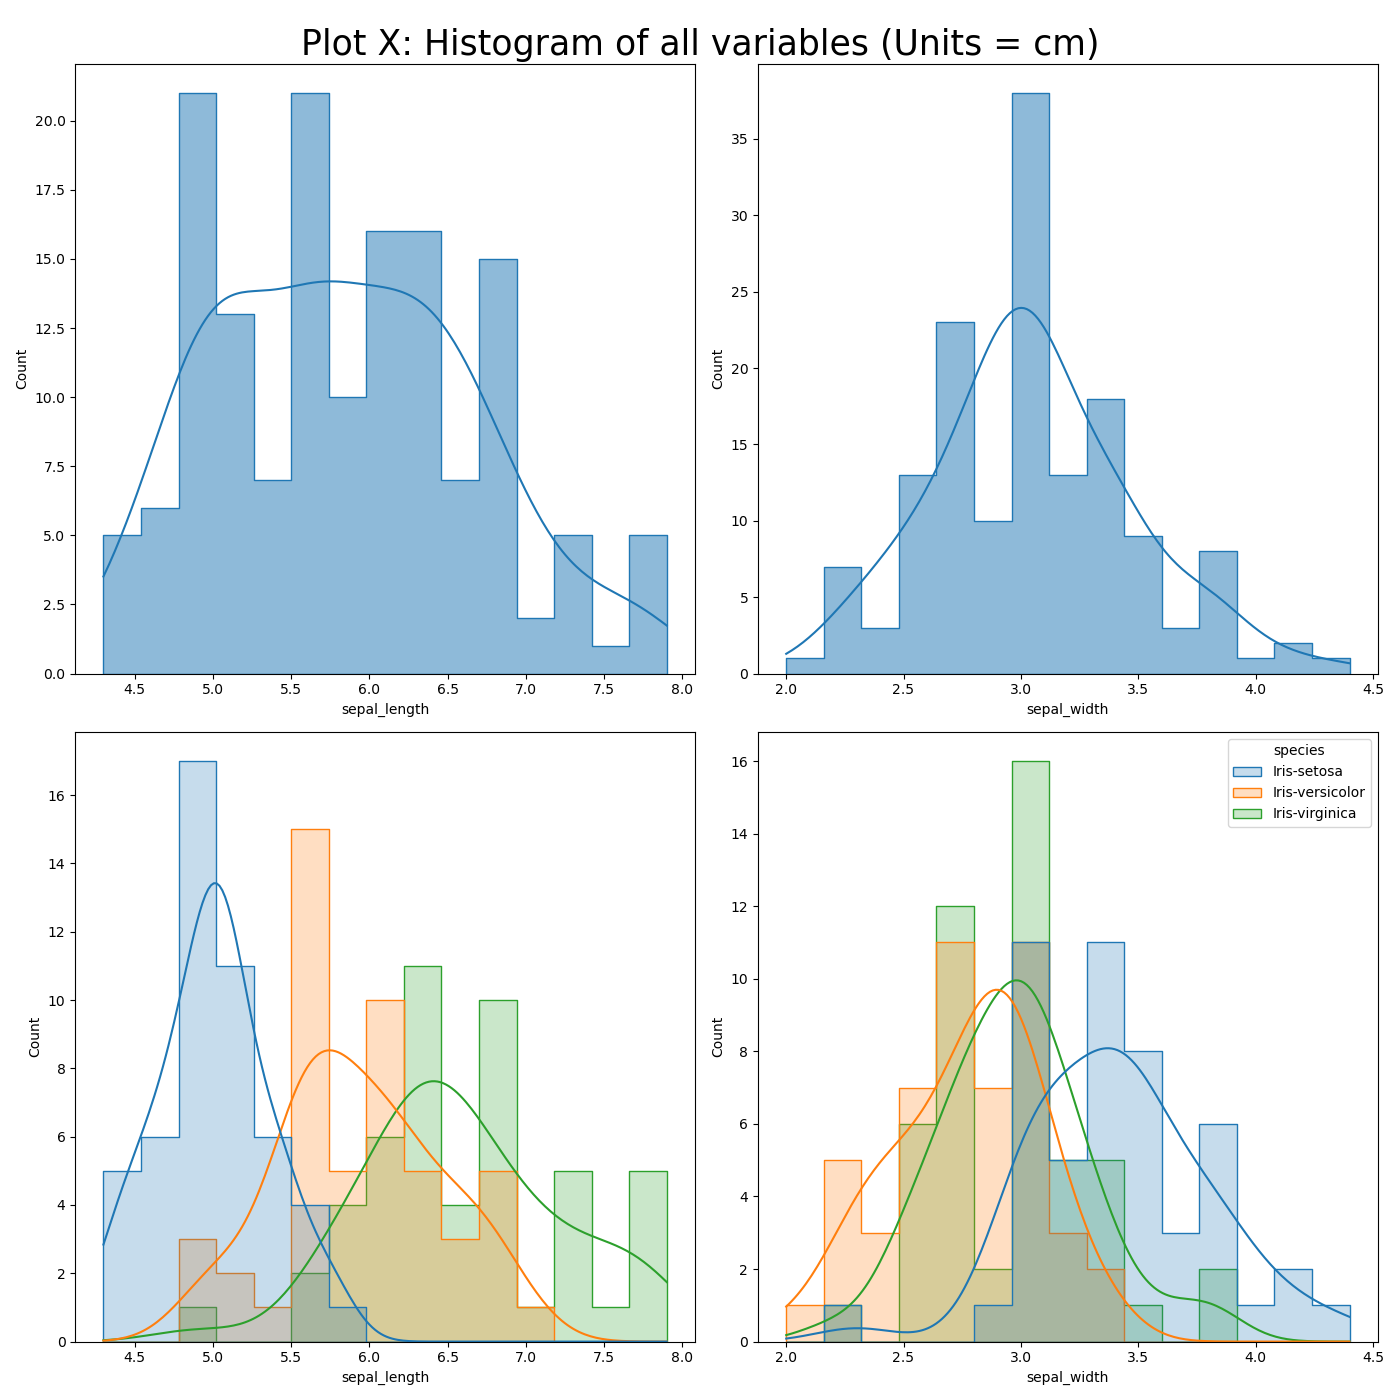
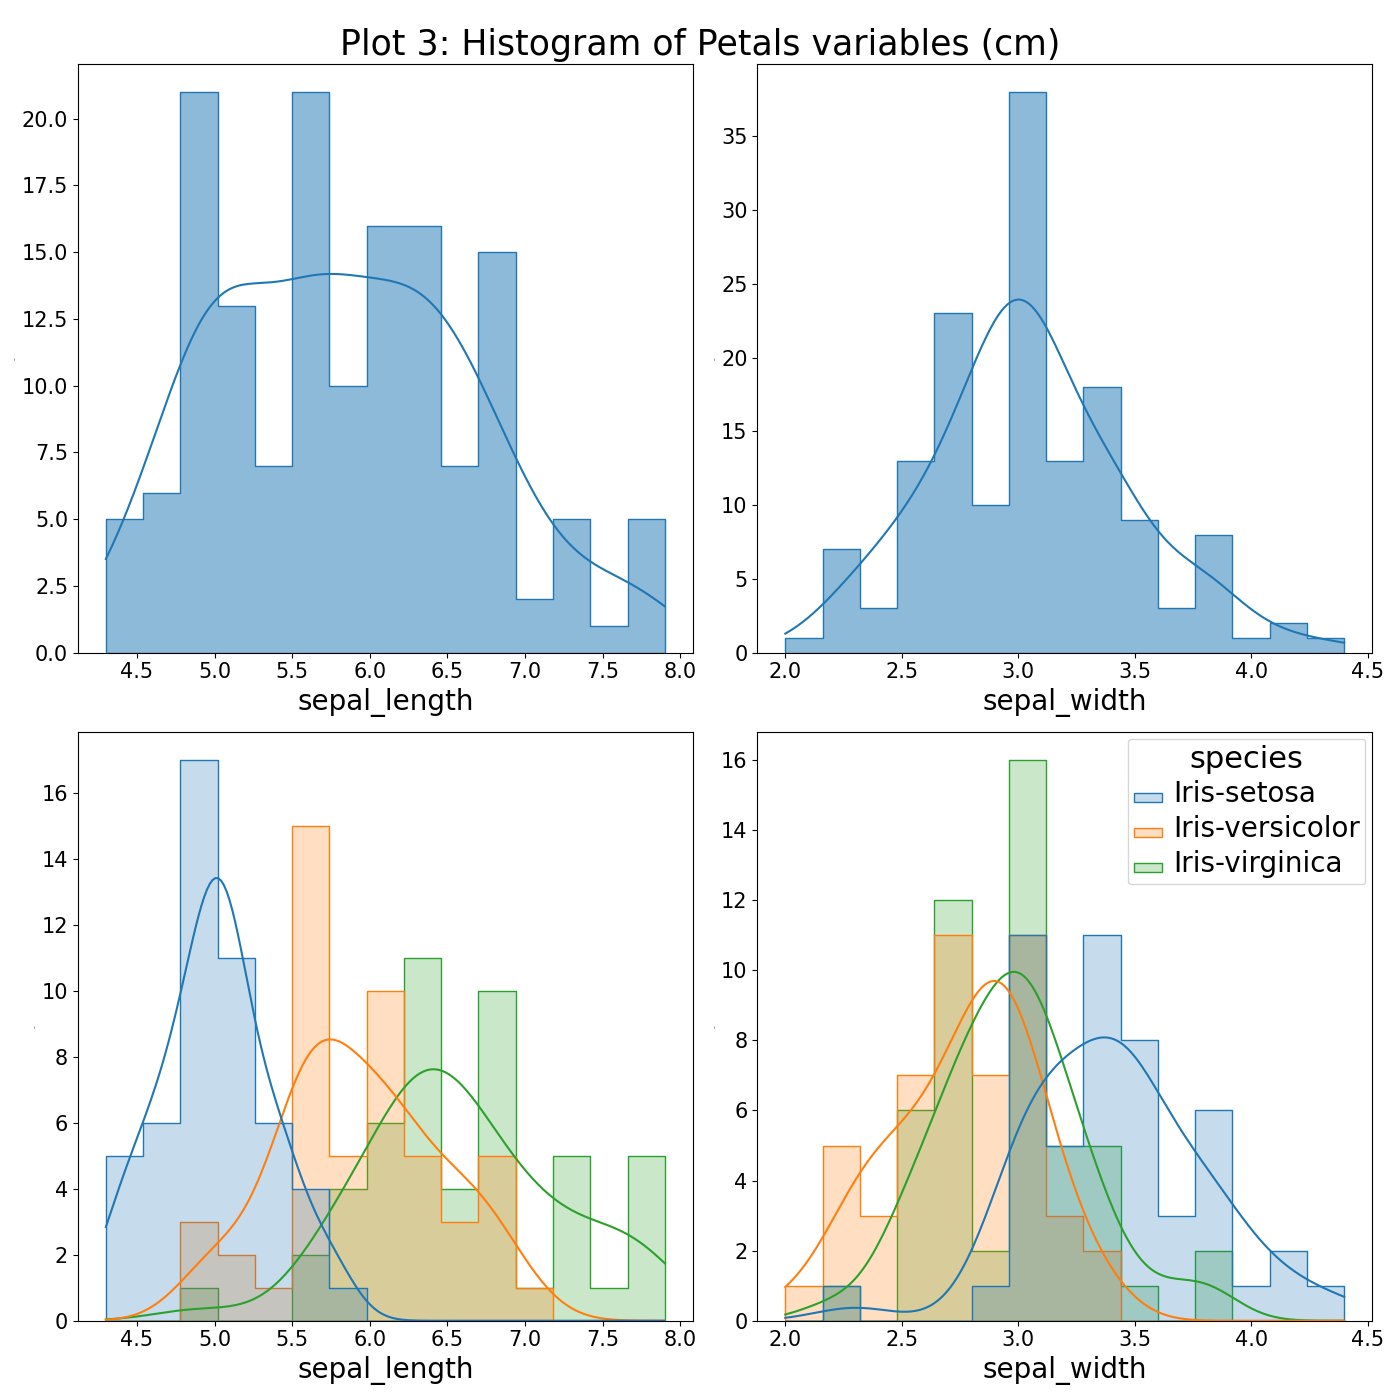
test

diff --git a/Project/analysis.py b/Project/analysis.py
@@ -103,27 +103,21 @@ scatter_plot()
     #Refernce:  https://stackoverflow.com/questions/42404154/increase-tick-label-font-size-in-seaborn
 
 
-def plot_histograms(filename, x_series_one, x_series_two):
-
+def plot_histograms(filename, plot_name, chart_title, x_series_one, x_series_two):
 
     bin_number = 15
 
     fig, axes = plt.subplots(2, 2, figsize=(14, 14))
-    fig.suptitle('Plot X: Histogram of all variables (Units = cm)',fontsize = 25)
+    fig.suptitle('{}: Histogram of {} variables (cm)'.format(plot_name,chart_title),fontsize = 25)
 
     sns.histplot(ax=axes[0, 0], data=iris_df, x = x_series_one, bins = bin_number, legend = False, kde = True,element = "step")
     sns.histplot(ax=axes[0, 1], data=iris_df, x = x_series_two, bins = bin_number, legend = False, kde = True,element ="step")
-    sns.histplot(ax=axes[1, 0], data=iris_df, x = x_series_one, bins = bin_number, legend = False, hue = 'species',kde = True,element ="step")
-    
+    sns.histplot(ax=axes[1, 0], data=iris_df, x = x_series_one, bins = bin_number, legend = False, hue = 'species',kde = True,element ="step") 
     hist_with_legend = sns.histplot(ax=axes[1, 1], data=iris_df, x = x_series_two, bins = bin_number, hue = 'species', kde = True,element = "step") 
-
-    '''
-    if 1 == None:
-        pass
-    else:
-        plt.setp(hist_with_legend.get_legend().get_texts(), fontsize='20')  
-        plt.setp(hist_with_legend.get_legend().get_title(), fontsize='20') 
     
+    plt.setp(ax.get_legend().get_texts(), fontsize='20') # for legend text
+    plt.setp(ax.get_legend().get_title(), fontsize='22') # for legend title
+
     for ax in plt.gcf().axes:
         x = ax.get_xlabel()
         y = ax.get_ylabel()
@@ -135,14 +129,12 @@ def plot_histograms(filename, x_series_one, x_series_two):
             plt.setp(ax.get_yticklabels(), Fontsize=15)  
         except ValueError:
             pass
-    '''
+
     fig.tight_layout() 
     plt.savefig('Images/' + filename +'.png')
  
-#plot_histograms('histograms_hue_species','species')
-#plot_histograms('histograms_hue_none',None)
-plot_histograms('histograms_sepals','petal_length','petal_width')
-plot_histograms('histograms_petals','sepal_length','sepal_width')
+plot_histograms('histograms_sepals',' Plot 2','Sepals','petal_length','petal_width')
+plot_histograms('histograms_petals','Plot 3','Petals','sepal_length','sepal_width')
 
 
 
